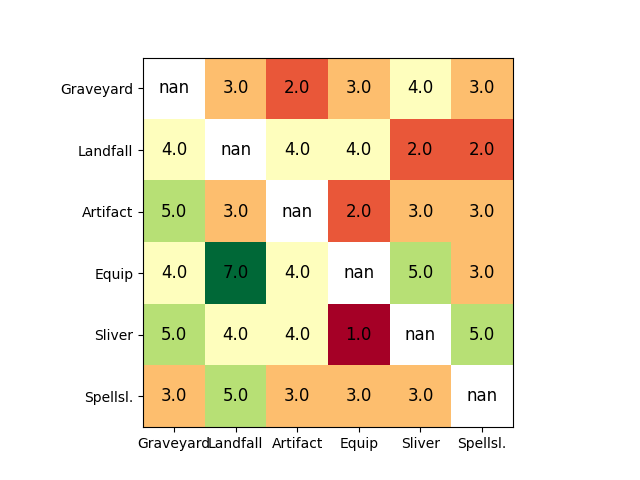
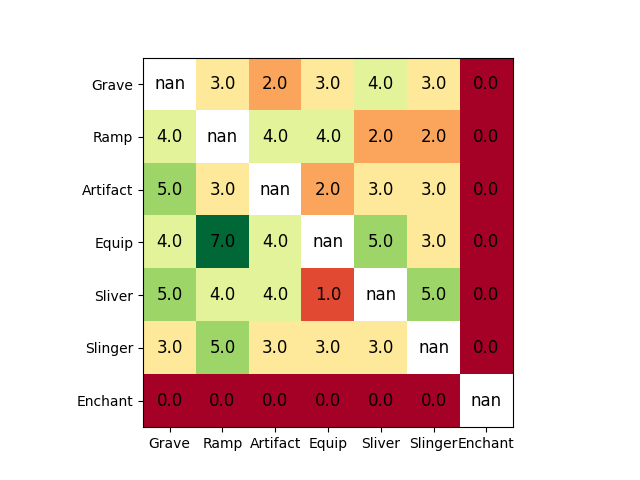
Add win loss vs cost. Overhaul code

diff --git a/win_loss_calc.py b/win_loss_calc.py
@@ -1,150 +1,272 @@
 from typing import Dict, List
-
+from matplotlib.cm import ScalarMappable
 import matplotlib.pyplot as plt
 import numpy as np
+from numpy import ndarray
+from matplotlib.colors import Normalize
 
 np.seterr(divide="ignore", invalid="ignore")
 
-DECK_NAME_ORDER = ["Graveyard", "Landfall", "Artifact", "Equip", "Sliver", "Spellsl."]
+
 CMAP = plt.get_cmap("viridis")
 
+# At least X games need to be played to visualize specific win/loss statistics
+MINIMAL_GAMEPLAY_THRESHOLD = 3
+# At least X win loss entries need to be in place to visualize global w/l stats.
+MINIMAL_WIN_LOSS_THRESHOLD = 3
+class GameData:
+    def __init__(self, stats_array: np.ndarray, deck_names: list[str], money_values: list[str]):
+        self.stats_array = stats_array
+        self.deck_names = deck_names
+        self.money_values = money_values
 
-def load_data() -> np.ndarray:
-    filename = "statistics.csv"
-    game_statistics_array = np.genfromtxt(filename, delimiter=",", dtype=float)
-    return game_statistics_array
+    @classmethod
+    def load_game_data(cls, file_path: str = "statistics.csv") -> 'GameData':
+        """
+        Loads game statistics and additional data from a CSV file.
 
+        Args:
+            file_path (str): Path to the CSV file containing game data.
 
-def plot_stats(array_to_plot: np.ndarray, plot_name: str) -> None:
+        Returns:
+            GameData: An object containing the game statistics array, deck names, and money values.
+        """
 
-    fig, ax = plt.subplots()
-    ax.imshow(array_to_plot, cmap="RdYlGn")
-
-    for (i, j), z in np.ndenumerate(array_to_plot):
-        ax.text(j, i, "{}".format(z), ha="center", va="center", size=12)
-
-    plt.xticks(np.arange(len(DECK_NAME_ORDER)), DECK_NAME_ORDER)
-    plt.yticks(np.arange(len(DECK_NAME_ORDER)), DECK_NAME_ORDER)
-    plt.savefig(f"results/{plot_name}.png")
-
-
-def plot_stats_with_win_loss_summary(array_to_plot: np.ndarray, plot_name: str) -> None:
-
-    # win_loss_summary = np.around(np.nanmean(array_to_plot,axis=1))
-    win_loss_summary = np.reshape(np.around(np.nanmean(array_to_plot,axis=1), decimals=1), (-1, array_to_plot.shape[0]))
-
-    extended_array_to_plot = np.hstack([win_loss_summary.T,array_to_plot])
-
-    fig, ax = plt.subplots()
-    ax.imshow(extended_array_to_plot, cmap="RdYlGn")
-
-    for (i, j), z in np.ndenumerate(extended_array_to_plot):
-        ax.text(j, i, "{}".format(z), ha="center", va="center", size=12)
-
-    plt.yticks(np.arange(len(DECK_NAME_ORDER)), DECK_NAME_ORDER)
-
-    plt.xticks(np.arange(len(DECK_NAME_ORDER)+1), ['w/l']+DECK_NAME_ORDER)
-    plt.savefig(f"results/{plot_name}.png")
+        with open(file_path, 'r') as file:
+            lines = file.readlines()
 
 
-def figure_and_form_total_games_played_array(
-    game_statistics_array: np.ndarray,
-    min_count_threshold: int,
-) -> np.ndarray:
-    total_games_played_array = np.empty(game_statistics_array.shape, dtype=float)
-    total_games_played_array[:] = np.nan
+        deck_names = lines[0].strip().split(',')  # first row is deck names
+        money_values = lines[1].strip().split(',')  # second row is money values
+        stats_data = lines[2:]  # rest of the data is game statistics
 
-    total_games_played_array_filtered = np.empty(game_statistics_array.shape, dtype=float)
-    total_games_played_array_filtered[:] = np.nan
+        stats_array = np.genfromtxt(stats_data, delimiter=",", dtype=float)
+        return cls(stats_array, deck_names, money_values)
 
-    for (i, j), z in np.ndenumerate(game_statistics_array):
-        if not np.isnan(z):
-            total_games_played = (
-                game_statistics_array[i, j] + game_statistics_array[j, i]
-            )
-            total_games_played_array[i, j] = total_games_played
-            total_games_played_array[j, i] = total_games_played
-            if total_games_played < min_count_threshold:
-                continue
+    def calculate_total_games_played(self,
+        threshold: int = MINIMAL_GAMEPLAY_THRESHOLD,
+    ) -> tuple[ndarray, ndarray]:
+        """
+        Calculates and filters the total games played for the deck pairs.
+
+        Args:
+            stats_array: A 2D array of game statistics, where each element [i, j]
+                                represents the games played between deck i and deck j.
+            threshold: The minimum number of games played required to consider a deck pair.
+
+        Returns:
+            - total_games (ndarray): A 2D array with the total games played between each deck pair.
+            - total_games_filtered (ndarray): The same as total_games but with entries below the threshold set to NaN.
+        """
+        total_games = np.empty_like(self.stats_array, dtype=float)
+        total_games[:] = np.nan
+
+        # Calculate total games played
+        for (i, j), games in np.ndenumerate(self.stats_array):
+            if not np.isnan(games):
+                total_played = self.stats_array[i, j] + self.stats_array[j, i]
+                total_games[i, j] = total_played
+                total_games[j, i] = total_played
+
+        # Create a mask for valid entries
+        valid_mask = (total_games >= threshold) | np.isnan(total_games)
+        total_games_filtered = np.full_like(total_games, np.nan, dtype=float)
+        total_games_filtered[valid_mask] = total_games[valid_mask]
+
+        return total_games, total_games_filtered
+
+    def calculate_win_loss_percentages(self, filtered_totals: ndarray) -> ndarray:
+        """
+        Calculates win-loss for deck pairs based on filtered total games played.
+        
+        Args:
+            game_data (ndarray): A 2D array of game statistics, where each element
+                [i, j] represents the games won by deck i against deck j.
+            filtered_totals (ndarray): A 2D array of the total games played between
+                each deck pair, filtered by a threshold to include only those with
+                sufficient play count.
+        
+        Returns:
+            A 2D array where each element [i, j] represents the win percentage of
+            deck i against deck j, calculated as (games won / total games played) *
+            100. Entries below the threshold are set to NaN.
+        """
+        win_loss_percentages = self.stats_array / filtered_totals * 100
+
+        return win_loss_percentages
+
+
+    def calculate_deck_pair_play_count(self, total_games_played: np.ndarray) -> Dict[int, List[List[str]]]:
+        """Calculates and groups the deck pair play count.
+        
+        This function examines the total games played between each pair of decks,
+        grouping them by the total count. It's aimed at identifying and suggesting
+        the exploration of rarer deck vs. deck combinations for future games.
+
+        Args:
+            total_games_played: A symmetric matrix with counts of games played
+                                            between each pair of decks.
+
+        Returns:
+            Groups of deck pairs by their total play count.
+        """
+        deck_pair_play_counts: Dict[int, List[List[str]]] = {}
+        for i in range(total_games_played.shape[0]):
+            for j in range(i + 1, total_games_played.shape[1]):  # Only upper triangle needed since matrix is mirrored
+                count = total_games_played[i, j]
+                if not np.isnan(count):
+                    # Directly append if count exists, else initialize with the current pair
+                    pair = [self.deck_names[i], self.deck_names[j]]
+                    reverse_pair = [self.deck_names[i], self.deck_names[j]]
+                    if count not in deck_pair_play_counts:
+                        deck_pair_play_counts[count] = [pair]
+                    elif pair not in deck_pair_play_counts[count] and reverse_pair not in deck_pair_play_counts[count]:
+                        deck_pair_play_counts[count].append(pair)
+        return deck_pair_play_counts
+
+
+    def plot_stats(self, array_to_plot: np.ndarray, plot_name: str) -> None:
+
+        fig, ax = plt.subplots()
+        ax.imshow(array_to_plot, cmap="RdYlGn")
+
+        for (i, j), z in np.ndenumerate(array_to_plot):
+            ax.text(j, i, "{}".format(z), ha="center", va="center", size=12)
+
+        plt.xticks(np.arange(len(self.deck_names)), self.deck_names)
+        plt.yticks(np.arange(len(self.deck_names)), self.deck_names)
+        plt.savefig(f"results/{plot_name}.png")
+
+    def plot_stats_with_win_loss_summary(self, array_to_plot: np.ndarray, plot_name: str) -> None:
+
+        # get mean win loss only for at least three win loss entries.
+        non_nan_counts = np.sum(~np.isnan(array_to_plot), axis=1)
+        means = np.nanmean(array_to_plot, axis=1, keepdims=True)
+        means[non_nan_counts < MINIMAL_WIN_LOSS_THRESHOLD] = -1
+
+        extended_array_to_plot = np.hstack([means, array_to_plot])
+
+        # Normalize color scale based on actual data range
+        valid_data = extended_array_to_plot[extended_array_to_plot != -1]
+        norm = Normalize(vmin=min(valid_data), vmax=max(valid_data))
+
+        fig, ax = plt.subplots()
+        cax = ax.imshow(extended_array_to_plot, cmap="RdYlGn", aspect='auto', interpolation='nearest', norm=norm)
+
+        # Annotate each cell, adjusting for "N/A" and valid data
+        for (i, j), value in np.ndenumerate(extended_array_to_plot):
+            if value == -1:
+                text = "N/A"
+                ax.text(j, i, text, ha="center", va="center", color="black")
             else:
-                total_games_played_array_filtered[i, j] = total_games_played
-                total_games_played_array_filtered[j, i] = total_games_played
-    return (total_games_played_array, total_games_played_array_filtered)
+                text = f"{value:.1f}"
+                ax.text(j, i, text, ha="center", va="center", color="black")
+
+        plt.yticks(np.arange(len(self.deck_names)), self.deck_names)
+        xticks_labels = ['Avg W/L%'] + self.deck_names
+        plt.xticks(np.arange(len(xticks_labels)), xticks_labels, rotation=45)
+        ax.set_title("Game Stats with win loss")
+        plt.tight_layout()
+        plt.savefig(f"results/{plot_name}.png")
+
+    def plot_deck_combination_counts(self, deck_play_counts: Dict) -> None:
+        my_cmap = plt.get_cmap("viridis")
+
+        playcount, deck_names = zip(*((k, val) for k in sorted(deck_play_counts) for val in deck_play_counts[k]))
+        playcount_list = list(playcount)
+        deck_names_list = [f"{entry[0]} vs {entry[1]}" for entry in deck_names]
+
+        # Map playcount to color
+        norm = plt.Normalize(min(playcount_list), max(playcount_list))
+        scalar_map = ScalarMappable(norm=norm, cmap=my_cmap)
+        colors = [scalar_map.to_rgba(playcount) for playcount in playcount_list]
+
+        fig, ax = plt.subplots(figsize=(10, 8))
+        bars = ax.barh(deck_names_list, playcount_list, color=colors)
+        ax.grid(visible=True, color="grey", linestyle="-.", linewidth=0.5, alpha=0.2)
+
+        ax.set_xlabel("Playcount")
+        ax.set_ylabel("Deck combination")
+        ax.set_title("Find rarest deck vs deck combination...")
+
+        # Explicitly provide the ax argument to plt.colorbar
+        plt.colorbar(scalar_map, ax=ax, label='Play Count')
+        fig.tight_layout()
+
+        plt.savefig("results/combinations_playcount.png")
 
 
-def figure_and_define_deck_play_counts(total_games_played_array: np.ndarray) -> Dict:
-    deck_play_counts: Dict[int, List[List[str]]] = {}
-    for (i, j), z in np.ndenumerate(total_games_played_array):
-        if not np.isnan(z):
-            if z not in deck_play_counts.keys():
-                deck_play_counts[int(z)] = [[DECK_NAME_ORDER[i], DECK_NAME_ORDER[j]]]
-            else:
-                # removes the counterparts since we would end up with [a,b], [b,a]
-                if [DECK_NAME_ORDER[j], DECK_NAME_ORDER[i]] in deck_play_counts[int(z)]:
-                    continue
-                else:
-                    deck_play_counts[int(z)].append(
-                        [DECK_NAME_ORDER[i], DECK_NAME_ORDER[j]]
-                    )
-    return deck_play_counts
+    def plot_single_deck_counts(self, deck_play_counts: Dict) -> None:
+        single_deck_count = {}
+        for deckname in self.deck_names:
+            single_deck_count[deckname] = 0
+        for count, deck_combinations in sorted(deck_play_counts.items()):
+            for deck_combination in deck_combinations:
+                single_deck_count[deck_combination[0]] += count
+                single_deck_count[deck_combination[1]] += count
+        
+        deck_names_list = list(single_deck_count.keys())
+        playcount_list = list(single_deck_count.values())
+
+        my_cmap = plt.get_cmap("viridis")
+        norm = Normalize(vmin=min(playcount_list), vmax=max(playcount_list))
+        scalar_map = ScalarMappable(norm=norm, cmap=my_cmap)
+        colors = scalar_map.to_rgba(playcount_list)
+
+        fig, ax = plt.subplots(figsize=(10, 8))
+        bars = ax.barh(deck_names_list, playcount_list, color=colors)
+        ax.grid(visible=True, color="grey", linestyle="-.", linewidth=0.5, alpha=0.2)
+
+        ax.set_xlabel("Playcount")
+        ax.set_ylabel("Single Deck Evaluation")
+        ax.set_title("What deck to play next..")
+
+        cbar = plt.colorbar(scalar_map, ax=ax, label='Play Count')
+
+        plt.tight_layout()
+        plt.savefig("results/deck_playcount.png")
 
 
-def plot_deck_combination_counts(deck_play_counts: Dict) -> None:
-    my_cmap = plt.get_cmap("viridis")
+    def plot_win_loss_vs_cost(self):
+        """
+        Plots deck win-loss percentages against their financial cost.
+        """
+        # Assuming total_games_played_filtered is calculated once and used here directly.
+        total_games_played, total_games_played_filtered = self.calculate_total_games_played()
+        win_loss_percentages = self.calculate_win_loss_percentages(total_games_played_filtered)
 
-    playcount, deck_names = zip(
-        *((k, val) for k in sorted(deck_play_counts) for val in deck_play_counts[k])
-    )
+        # Ensure to handle division by zero or undefined cases.
+        win_loss_averages = np.nanmean(win_loss_percentages, axis=1)
 
-    playcount_list = list(playcount)
-    deck_names_list = [f"{entry[0]} vs {entry[1]}" for entry in deck_names]
+        # Convert money_values from string to float for plotting, ensuring alignment with deck_names
+        money_values_float = [float(value) for value in self.money_values]
 
-    fig = plt.figure(figsize=(10, 8))
-    ax = fig.add_axes([0.2, 0.1, 0.7, 0.8])
-    ax.barh(deck_names_list, playcount_list, color=my_cmap.colors)
-    ax.grid(visible=True, color="grey", linestyle="-.", linewidth=0.5, alpha=0.2)
+        # Create the scatter plot
+        fig, ax = plt.subplots()
+        scatter = ax.scatter(money_values_float, win_loss_averages, alpha=0.5)
 
-    ax.set_xlabel("Playcount")
-    ax.set_ylabel("Deck combination")
-    ax.set_title("What combination to play next..")
-    plt.savefig("results/combination_play_statistics.png")
+        # Label each point with the corresponding deck name for identification
+        for i, deck_name in enumerate(self.deck_names):
+            ax.annotate(deck_name, (money_values_float[i], win_loss_averages[i]))
 
+        ax.set_xlabel('Deck Cost ($)')
+        ax.set_ylabel('Average Win-Loss Percentage (%)')
+        ax.set_title('Win-Loss Dominance vs. Financial Investment')
 
-def plot_single_deck_counts(deck_play_counts: Dict) -> None:
-    single_deck_count = {}
-    for deckname in DECK_NAME_ORDER:
-        single_deck_count[deckname] = 0
-    for i, j in sorted(deck_play_counts.items()):
-        for deck_combination in j:
-            single_deck_count[deck_combination[0]] += i
-            single_deck_count[deck_combination[1]] += i
-    playcount_list = list(single_deck_count.values())
-    deck_names_list = list(single_deck_count.keys())
-
-    fig = plt.figure(figsize=(10, 8))
-    ax = fig.add_axes([0.2, 0.1, 0.7, 0.8])
-    ax.barh(deck_names_list, playcount_list, color=CMAP.colors)
-    ax.grid(visible=True, color="grey", linestyle="-.", linewidth=0.5, alpha=0.2)
-
-    ax.set_xlabel("Playcount")
-    ax.set_ylabel("Single Deck Evaluation")
-    ax.set_title("What deck to play next..")
-    plt.savefig("results/deck_play_statistics.png")
-
+        plt.tight_layout()
+        plt.savefig("results/win_loss_vs_cost.png")
+        plt.show()
 
 if __name__ == "__main__":
-    game_statistics_array = load_data()
+    gd = GameData.load_game_data()
 
-    total_games_played_array, total_games_played_array_filtered  = figure_and_form_total_games_played_array(
-        game_statistics_array,
-        min_count_threshold=3
-    )
-    win_loss_percentages_array = game_statistics_array / total_games_played_array_filtered * 100
-    deck_play_counts = figure_and_define_deck_play_counts(total_games_played_array)
+    total_games_played, total_games_played_filtered  = gd.calculate_total_games_played()
+    win_loss_percentages = gd.calculate_win_loss_percentages(total_games_played_filtered)
+    deck_play_counts = gd.calculate_deck_pair_play_count(total_games_played)
 
-    plot_deck_combination_counts(deck_play_counts)
-    plot_single_deck_counts(deck_play_counts)
-    plot_stats_with_win_loss_summary(np.around(win_loss_percentages_array, decimals=1), "win_loss_ratio_sum")
-    # plot_stats(np.around(win_loss_percentages_array, decimals=1), "win_loss_ratio")
+    gd.plot_deck_combination_counts(deck_play_counts)
+    gd.plot_single_deck_counts(deck_play_counts)
 
-    plot_stats(game_statistics_array, "game_stats")
+    gd.plot_stats_with_win_loss_summary(np.around(win_loss_percentages, decimals=1), "win_loss_game_stats")
+    gd.plot_stats(gd.stats_array, "game_stats")
+    gd.plot_win_loss_vs_cost()
